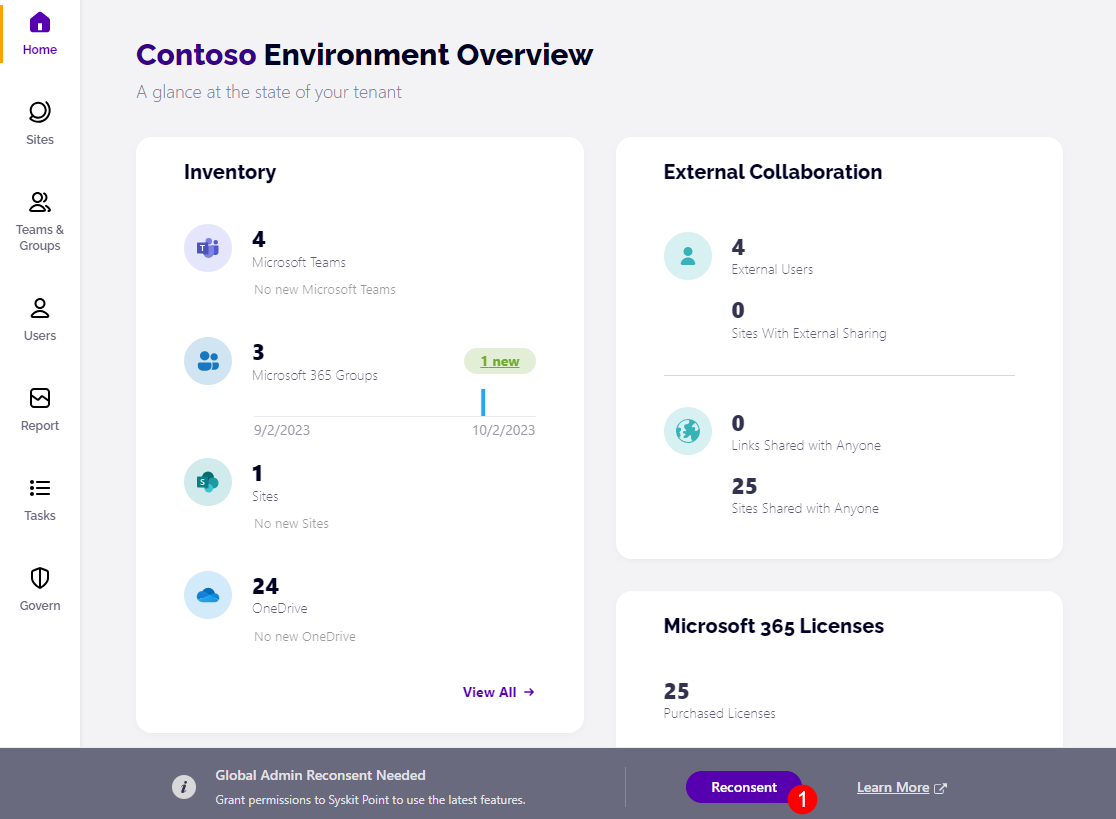
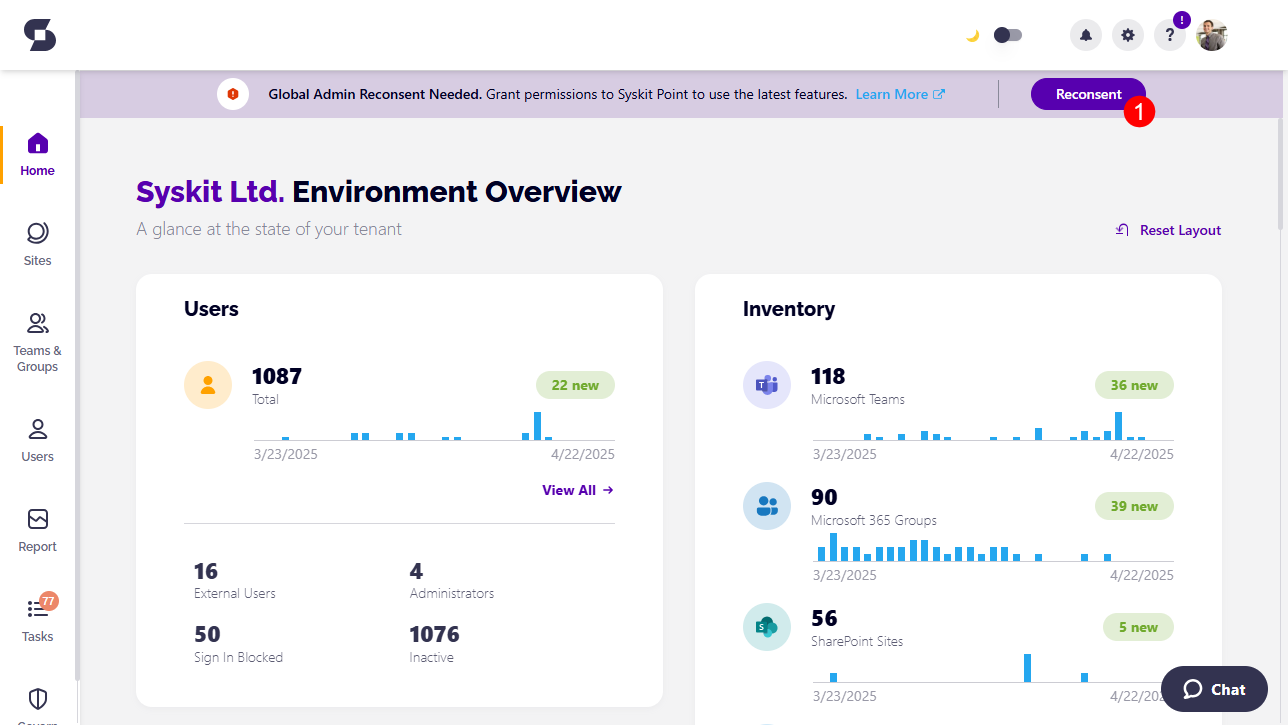
recosent & permission update

diff --git a/requirements/permission-requirements.md b/requirements/permission-requirements.md
@@ -71,6 +71,7 @@ To allow safer access to your Microsoft 365 tenant data and optimize the data sy
 | ---------------------------------------------------------------- | ----------- | ---------------------------------------------------------------------------------------------------------------------------------------------------------------------------------------------------------------------------- |
 | Read all audit log data                                          | Application | Enables Syskit Point to access data used to determine the time of the last sign-in for guest users.                                                                                                                          |
 | Read the members of all channels                                 | Application | Allows Syskit Point to collect membership data for private and shared channels.                                                                                                                                              |
+| Read all channel messages                                        | Application | Enables Syskit Point to calculate Teams activity based on the latest channel message date.                                                                                                                                           |
 | Read directory data                                              | Application | Allows Syskit Point to autodiscover your sites, groups, and users.                                                                                                                                                           |
 | Read files in all site collections                               | Application | Enables Syskit Point to perform partial site syncs containing changed files only.                                                                                                                                            |
 | Read and write all groups                                        | Application | Allows Syskit Point to read Microsoft 365 Group data and show you reports based on that data. Additionally, it allows you to manage your groups from Syskit Point.                                                           |

diff --git a/requirements/permission-requirements-change-log.md b/requirements/permission-requirements-change-log.md
@@ -17,7 +17,7 @@ Reconsent can be performed:
 
 ### Reconsent After Upgrade
 
-If the latest Syskit Point version has some new permissions requirements to which your Global Administrator has not consented before, you will get a notification at the bottom of the Home screen after your first sign-in to the new version:
+If the latest Syskit Point version has some new permissions requirements to which your Global Administrator has not consented before, you will get a notification at the top of the Home screen after your first sign-in to the new version:
 
 **Global Admin Reconsent Needed** - Grant permissions to Syskit Point to use the latest feature.
 
@@ -57,6 +57,21 @@ After clicking the Manage Connection button, you can expect the following to hap
 ## Permission Changes
 
 Depending on which version you are upgrading to, below you can find the list of changes in permissions requested and which features depend on them.
+
+### Syskit Point Cloud 2025.2.89
+
+**Consent is required due to permission changes introduced with switching from the beta endpoint to the Graph v1 endpoint to ensure uninterrupted detection of Microsoft Teams activity based on the latest message date**. 
+
+**The following permission is added to the existing Syskit Point app registration**:
+
+| App Registration    | API/Permissions Name                     | Permission                        | Type      | Reason                                                                                         |
+| ------------------- | ---------------------------------------- | --------------------------------- | --------- | ---------------------------------------------------------------------------------------------- |
+| Syskit Point Service | Microsoft Graph/ChannelMessage.Read.All | Read all channel messages | Application | Enables Syskit Point to calculate Teams activity based on the latest channel message date. |
+
+{% hint style="warning" %}
+**Please note!**\
+Syskit Point **does not read or save** the content of messages to detect Microsoft Teams activity. 
+{% endhint %}
 
 ### Syskit Point Cloud 2025.2.88
 

diff --git a/configuration/microsoft-teams-activity.md b/configuration/microsoft-teams-activity.md
@@ -12,11 +12,11 @@ description: >-
 
 **Syskit Point** enables you to easily **discover which of your Microsoft Teams are not being actively used**.
 
-Syskit Point uses Protected APIs in Microsoft Teams, which make it possible for Syskit Point to **detect inactive Microsoft Teams based on the date of the last message.**
+Syskit Point uses Microsoft Graph API, which makes it possible for Syskit Point to **detect inactive Microsoft Teams based on the date of the last message.**
 
 {% hint style="warning" %}
 **Please note!**\
-Syskit Point **does not require** you to provide access to protected APIs for it to successfully track your Microsoft Teams activity. 
+Syskit Point **does not read or save** the content of messages to detect Microsoft Teams activity. 
 {% endhint %}
 
-To learn more about Protected APIs in Microsoft Teams, read the [following article](https://docs.microsoft.com/en-us/graph/teams-protected-apis).
+To learn more about Graph API, read the [following article](https://learn.microsoft.com/en-us/graph/use-the-api).

diff --git a/releases/cloud/point-2025-04-22-release-note.md b/releases/cloud/point-2025-04-22-release-note.md
@@ -15,6 +15,11 @@ description: This article lists improvements and bug fixes in the Syskit Point C
 
 ## Improvements & Bug Fixes 
 
+{% hint style="warning" %}
+**Please note!**\
+Global admin re-consent is required after the upgrade to the latest version due to changes in APIs used to [detect Teams chat activity](../../configuration/microsoft-teams-activity.md). [Learn more about permission changes here](../../requirements/permission-requirements-change-log.md)
+{% endhint %}
+
 * **Improved the Sync job in Syskit Point to handle sites with high subsite count better**. 
 
 * **The Permission Matrix report** can now be generated for specific document libraries or folders. 
